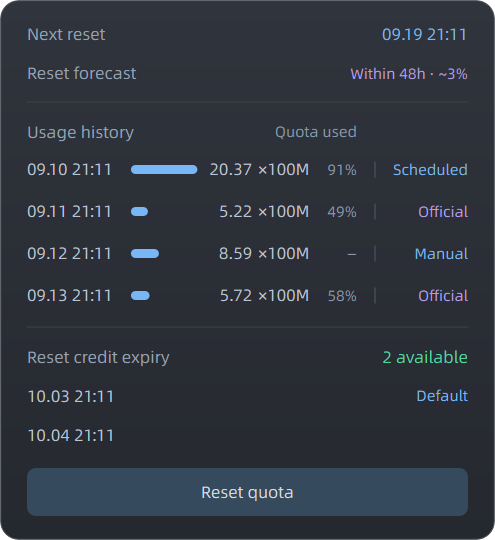
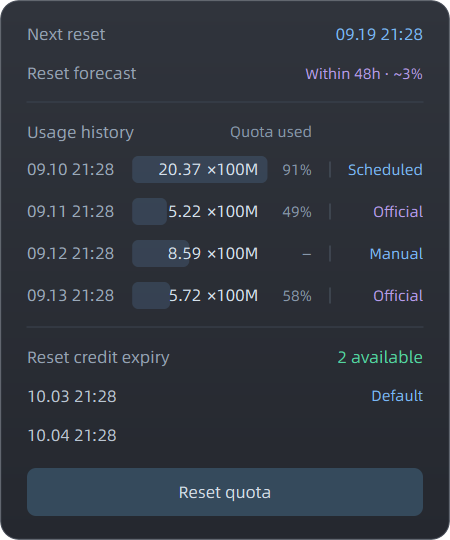
fix(ui): merge history bars into readable usage cells
Draw muted comparison bars behind aligned values and units instead of allocating a separate chart column. Keep dates secondary and preserve independent quota percentages, missing values and row height.

Verified: 79 focused checks and four-language native renders, including cell padding and shared scaling.

Spec: docs/specs/interaction.md

diff --git a/codex_taskbar/app.py b/codex_taskbar/app.py
@@ -1407,7 +1407,7 @@ class ResetPopup(TaskPopup):
         percent_width=max([QFontMetricsF(face(7)).horizontalAdvance(self.history_percent(row)) for row in self.rows]+[0])
         usage_width=number_width+4+unit_width
         self.bar_left=18+date_width+12
-        width=max(self.WIDTH,math.ceil(self.bar_left+44+8+usage_width+12+percent_width+24+source_width+18))
+        width=max(self.WIDTH,math.ceil(self.bar_left+6+usage_width+16+percent_width+24+source_width+18))
         self.place_panel(width,height)
         self.scroll_body=self.owner.floating or self.height()<height
         if self.scroll_body:
@@ -1417,7 +1417,7 @@ class ResetPopup(TaskPopup):
         self.button.setGeometry(18,self.height()-48,self.width()-36,32)
         self.history_divider=self.width()-18-source_width-12
         self.percent_right=self.history_divider-12
-        self.token_right=self.percent_right-percent_width-12
+        self.token_right=self.percent_right-percent_width-16
         self.token_left=self.token_right-usage_width
         self.number_right=self.token_left+number_width
         self.unit_left=self.number_right+4
@@ -1463,7 +1463,7 @@ class ResetPopup(TaskPopup):
     def history_bar_rect(self,row,y):
         value=self.history_tokens(row)
         fraction=value/self.history_max if value is not None and self.history_max else 0
-        return QRectF(self.bar_left,y-3,max(0,self.token_left-8-self.bar_left)*fraction,6)
+        return QRectF(self.bar_left,y-9,max(0,self.token_right+6-self.bar_left)*fraction,18)
 
     def paintEvent(self,event):
         p=panel_painter(self);window=countdown_window(effective_quota_data(self.data),self.owner.settings)
@@ -1490,13 +1490,14 @@ class ResetPopup(TaskPopup):
         if not self.rows:text(p,18,89,self.owner.label('No records yet'),face(8),'#94a2b3')
         for i,row in enumerate(self.rows):
             y=89+i*self.ROW_HEIGHT-(0 if self.scroll_body else self.scroll)
-            text(p,18,y,datetime.fromtimestamp(row['at']).strftime('%m.%d %H:%M'),face(8),MUTED)
+            text(p,18,y,datetime.fromtimestamp(row['at']).strftime('%m.%d %H:%M'),face(8),'#9aa9ba')
             box=self.history_bar_rect(row,y)
             if box.width()>0:
-                p.setPen(Qt.PenStyle.NoPen);p.setBrush(QColor(BLUE));p.drawRoundedRect(box,min(3,box.width()/2),3)
+                fill=QColor(BLUE);fill.setAlpha(38)
+                p.setPen(Qt.PenStyle.NoPen);p.setBrush(fill);p.drawRoundedRect(box,min(4,box.width()/2),4)
             number,unit=self.history_parts(row)
-            text(p,self.number_right-QFontMetricsF(face(8)).horizontalAdvance(number),y,number,face(8),MUTED)
-            if unit:text(p,self.unit_left,y,unit,face(8),MUTED)
+            text(p,self.number_right-QFontMetricsF(face(8)).horizontalAdvance(number),y,number,face(8),'#d3dfeb')
+            if unit:text(p,self.unit_left,y,unit,face(8),'#d3dfeb')
             percent=self.history_percent(row)
             text(p,self.percent_right-QFontMetricsF(face(7)).horizontalAdvance(percent),y,percent,face(7),TITLE_MUTED)
             label=self.history_label(row)

diff --git a/tests/test_reset_chart.py b/tests/test_reset_chart.py
@@ -22,7 +22,7 @@ class ResetChartTests(unittest.TestCase):
         first=panel.history_bar_rect(rows[0],89);second=panel.history_bar_rect(rows[1],133)
         self.assertEqual(first.width(),second.width()*2)
         self.assertEqual(panel.history_percent(rows[0]),'20%');self.assertEqual(panel.history_percent(rows[1]),'95%')
-        self.assertEqual(first.left(),second.left());self.assertLess(first.right(),panel.token_left)
+        self.assertEqual(first.left(),second.left());self.assertGreater(first.right(),panel.token_right)
         panel.scroll=44;self.assertEqual(panel.history_bar_rect(rows[1],89).width(),second.width())
         rows[1].pop('before');panel.refresh(self.data)
         self.assertEqual(panel.history_percent(rows[1]),'—');self.assertEqual(panel.history_bar_rect(rows[1],89).width(),second.width())
@@ -73,7 +73,8 @@ class ResetChartTests(unittest.TestCase):
                 self.assertEqual(bar.center().y(),y)
                 numbers=[call for call in draw.call_args_list if call.args[3]==panel.history_parts(row)[0] and call.args[2]==y and call.args[1]<panel.number_right]
                 self.assertEqual(len(numbers),1)
-                self.assertLessEqual(bar.right()+8,panel.token_left)
+                self.assertLessEqual(bar.right(),panel.token_right+6)
+                self.assertGreaterEqual(panel.token_left-panel.bar_left,6)
                 self.assertLess(panel.token_right,panel.percent_right)
                 self.assertLess(panel.percent_right,panel.history_divider)
             self.assertLessEqual(panel.ROW_HEIGHT,28)

diff --git a/docs/specs/interaction.md b/docs/specs/interaction.md
@@ -78,7 +78,7 @@ Codex侧边聊天是临时会话，不进入普通任务列表和持久化rollou
 
 周图和日列表顶部分别保留“Cycle · Tokens”和“Today · Tokens”小标题；下方共用图标、日期周期、Σ Token总量、M / 100M单位切换。日列表日期为本地当天，总量使用现有今日累计Token，单位同时作用于总量与任务行。周图保留柱状图；状态与重置面板没有单位点击区域。
 
-历史用量以水平条形图比较各阶段的本机Token总量，保持旧周期到新周期顺序。每条记录只占一行：日期、紧凑Token横条、精确数值与单位、独立额度百分比、来源依次排列，垂直居中。横条只承担快速比较，不把数值拆到下一行；按实际字宽计算列间距。横条以0为起点，按全部历史中的最大有效Token值共用比例，不随滚动重新缩放，不表示账户容量。数值右对齐、单位左对齐，中文/日文为亿/億，其余为×100M；无重复Token列头。额度百分比在独立“额度消耗”列下显示，仍取真实重置前快照，缺失为横杠；不能按Token值反算百分比。零Token显示0与单位且不填充横条，缺失Token显示横杠且不填充。官方来源为紫色，其他既有来源为蓝色，横条统一蓝色。
+历史用量以水平条形图比较各阶段的本机Token总量，保持旧周期到新周期顺序。每条记录只占一行：日期、Token用量、独立额度百分比、来源依次排列，垂直居中。横条并入Token单元格作为淡蓝色背景，数值与单位叠在上方，保持独立对齐与清晰对比；不另占一列，不拆到下一行。按实际字宽计算列间距。横条以0为起点，按全部历史中的最大有效Token值共用比例，不随滚动重新缩放，不表示账户容量。数值右对齐、单位左对齐，中文/日文为亿/億，其余为×100M；无重复Token列头。额度百分比在独立“额度消耗”列下显示，仍取真实重置前快照，缺失为横杠；不能按Token值反算百分比。零Token显示0与单位且不填充横条，缺失Token显示横杠且不填充。官方来源为紫色，其他既有来源为蓝色，横条统一蓝色。
 
 每项28DIP，沿用现有面板开合动画，不为静态历史增加持续动画。默认历史区域最多六项，更多记录继续滚动；可用高度不足时整体内容滚动，顶部下次重置/预测和底部重置按钮保持可见，图表与到期信息不压住按钮。悬停说明和辅助描述明确区分本机Token与最后记录的账户额度百分比。数据采集、历史边界、重置操作与确认流程不变。
 
